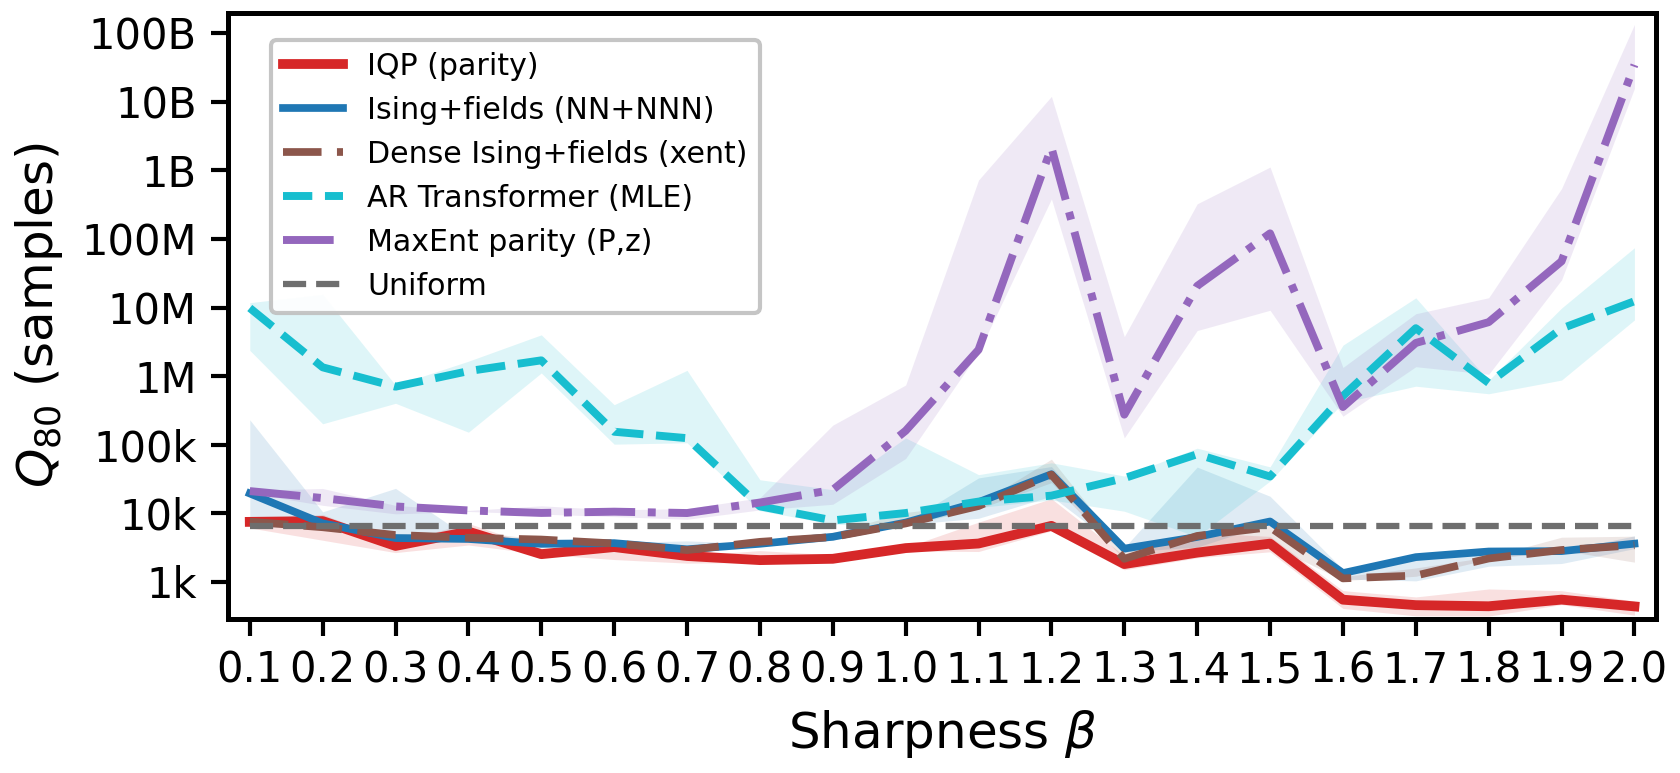
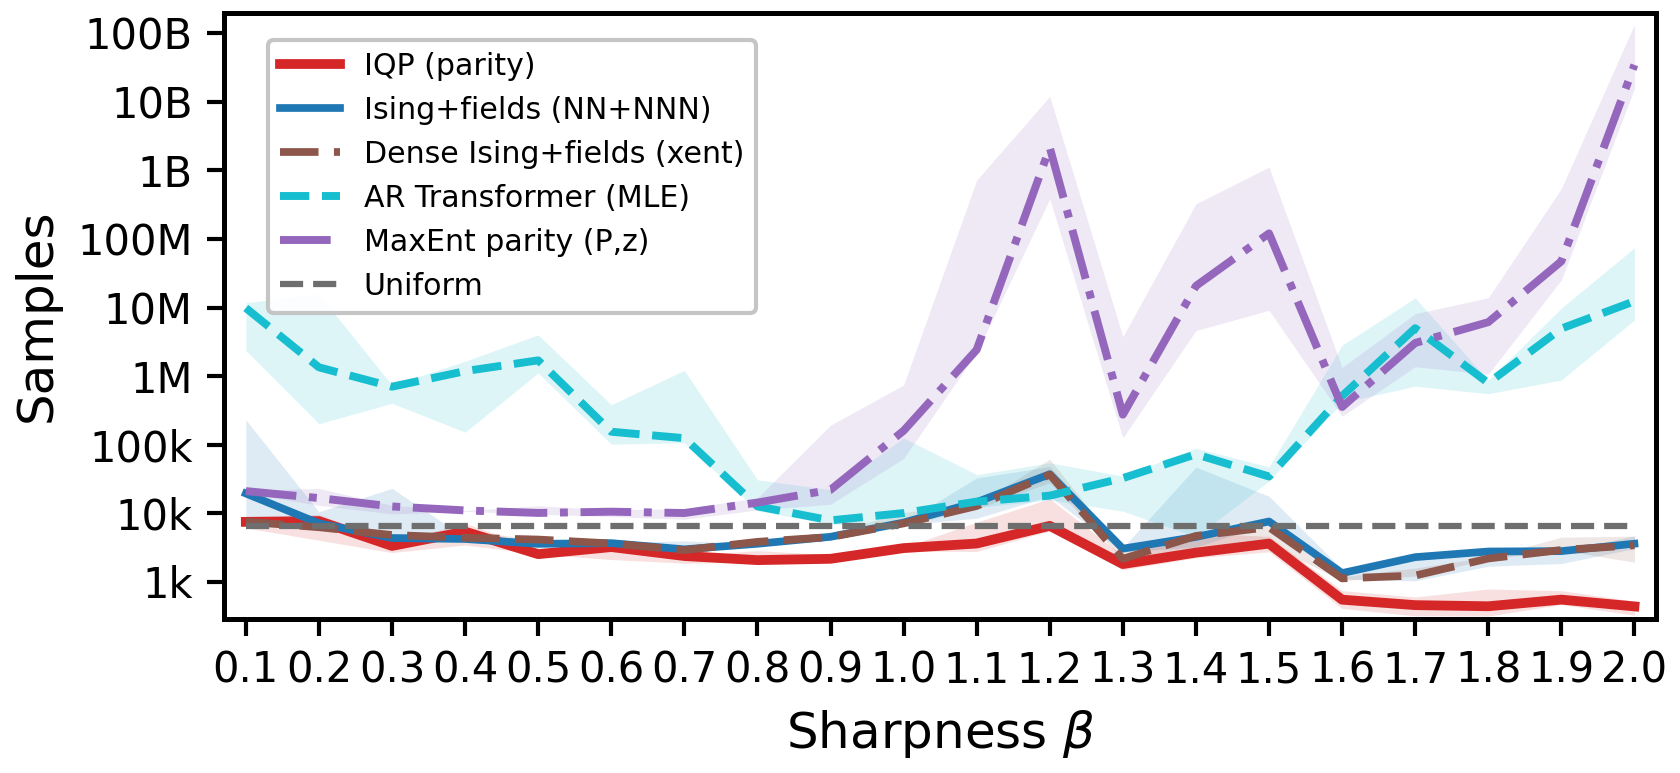
Shorten fig6 q80 summary y-axis label

diff --git a/experiments/analysis/plot_fig6_beta_q80_summary.py b/experiments/analysis/plot_fig6_beta_q80_summary.py
@@ -771,7 +771,7 @@ def run() -> None:
     ax.yaxis.set_major_formatter(FuncFormatter(_format_log_tick))
     ax.yaxis.set_minor_locator(NullLocator())
     ax.set_xlabel(r"Sharpness $\beta$")
-    ax.set_ylabel(rf"${_q_math_label(float(args.q80_thr))}$ (samples)")
+    ax.set_ylabel("Samples")
 
     has_censored = False
 

diff --git a/outputs/analysis/ARTIFACT_MANIFEST.md b/outputs/analysis/ARTIFACT_MANIFEST.md
@@ -1,6 +1,6 @@
 # Artifact Manifest
 
-Generated: 2026-03-11 12:18:40 UTC
+Generated: 2026-03-11 12:24:43 UTC
 
 This manifest records SHA-256 checksums and file sizes for all files in `outputs/final_plots` (excluding manifest files).
 
@@ -29,8 +29,8 @@ This manifest records SHA-256 checksums and file sizes for all files in `outputs
[10 lines of base64/hex data omitted]
